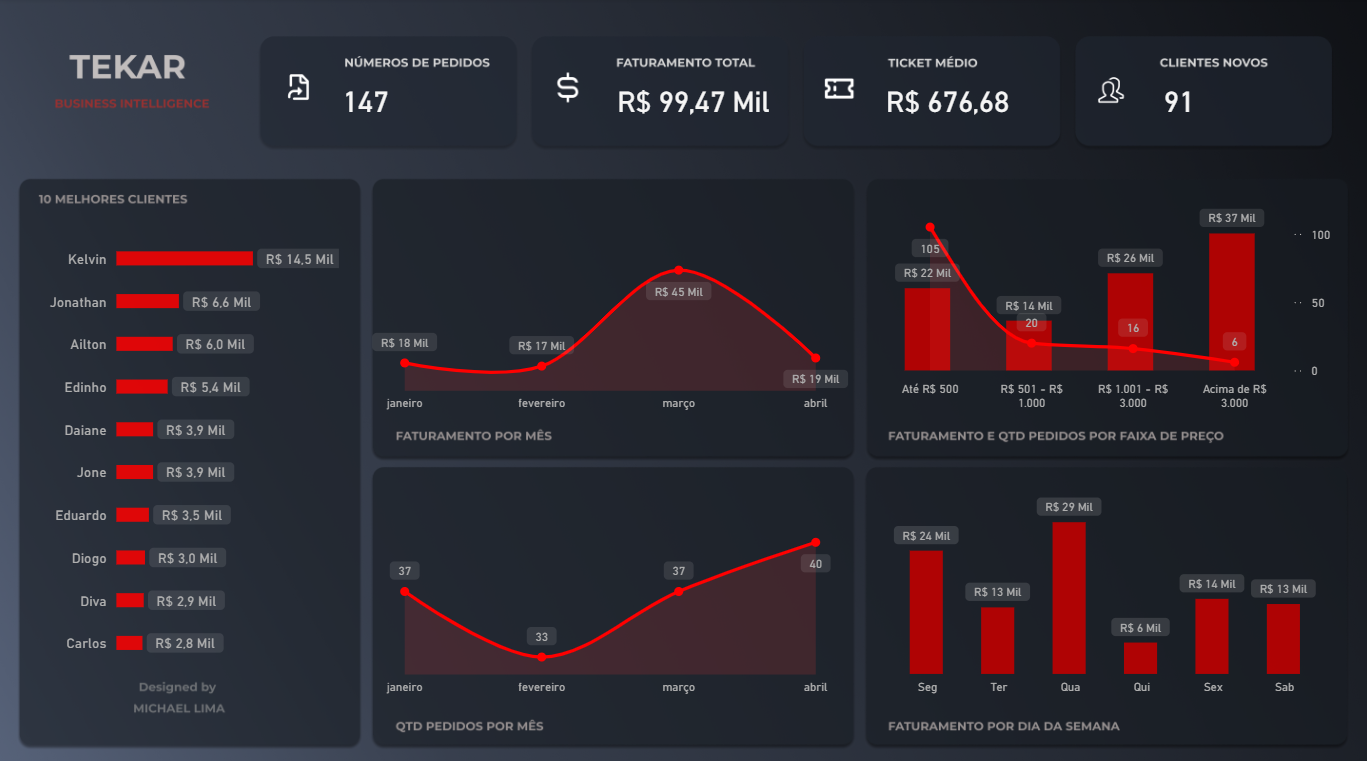
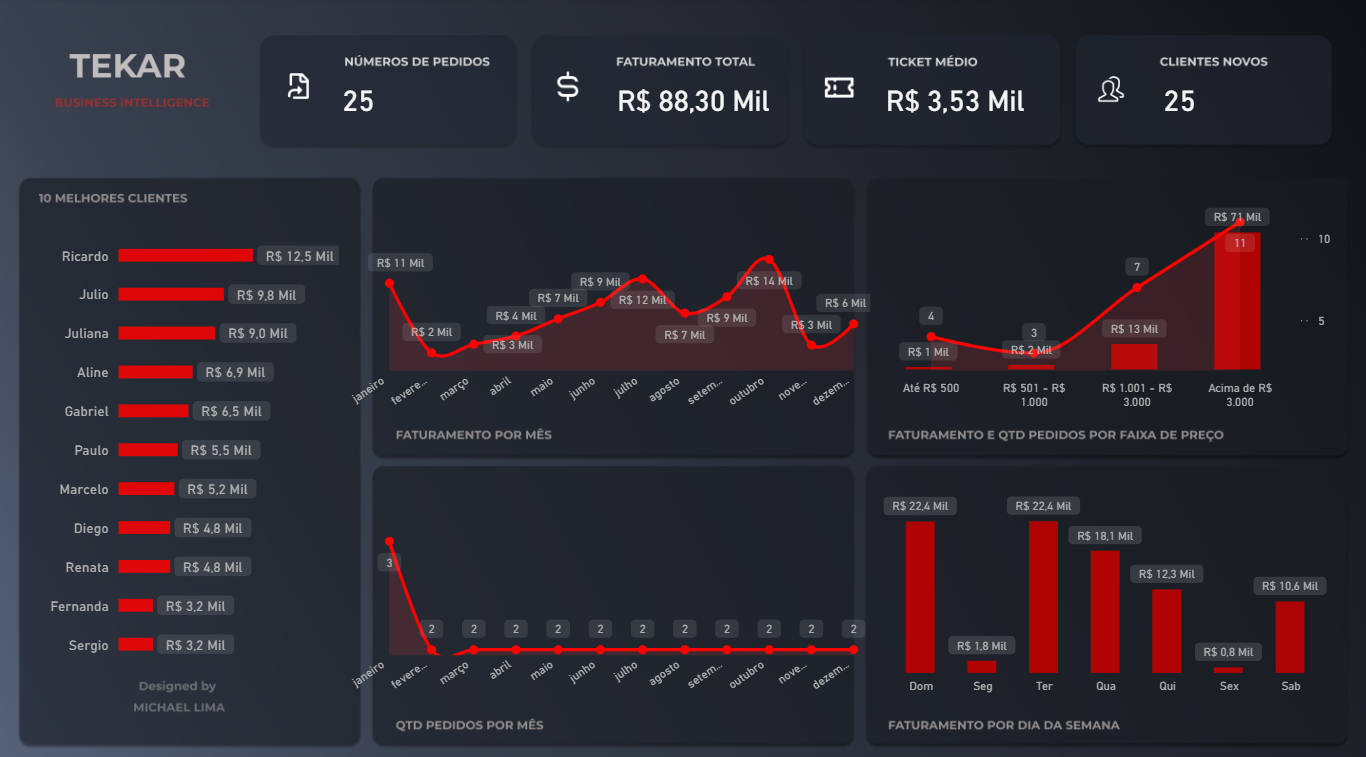
README.md

diff --git a/README.md b/README.md
@@ -16,6 +16,56 @@ PDF → Extração → Tratamento → Banco de Dados → Power BI
 
 ---
 
+## Screenshots
+
+### 1. Dashboard Streamlit
+
+> Área principal da plataforma Streamlit com visão geral do processamento.
+
+![Dashboard Streamlit](docs/dashboard_streamlit.png)
+
+---
+
+### 2. Área de Extração de Dados
+
+> Upload dos PDFs e processamento automático dos recibos.
+
+![Extração de Dados](docs/extracao_dados.png)
+
+---
+
+### 3. Área de Exportação de Dados
+
+> Exportação para CSV/Excel e envio direto para PostgreSQL.
+
+![Exportação de Dados](docs/exportar_dados.png)
+
+---
+
+### 4. Template Power BI
+
+> Plano de fundo criado no Figma para construção visual do dashboard.
+
+![Template Power BI](powerbi/screenshots/Figma.png)
+
+---
+
+### 5. Esboço da Arquitetura Visual
+
+> Rascunho do layout e organização dos elementos no Excalidraw.
+
+![Esboço Excalidraw](powerbi/screenshots/Excalidraw.png)
+
+---
+
+### 6. Dashboard Power BI Final
+
+> Dashboard final conectado ao PostgreSQL e publicado para visualização web.
+
+![Dashboard Power BI](powerbi/screenshots/DashBoard.png)
+
+---
+
 ## Arquitetura
 
 ```text
@@ -166,55 +216,6 @@ pdf_etl_platform/
         ├── __init__.py
         └── pedido_transformer.py
 ```
----
-
-## Screenshots
-
-### 1. Dashboard Streamlit
-
-> Área principal da plataforma Streamlit com visão geral do processamento.
-
-![Dashboard Streamlit](docs/dashboard_streamlit.png)
-
----
-
-### 2. Área de Extração de Dados
-
-> Upload dos PDFs e processamento automático dos recibos.
-
-![Extração de Dados](docs/extracao_dados.png)
-
----
-
-### 3. Área de Exportação de Dados
-
-> Exportação para CSV/Excel e envio direto para PostgreSQL.
-
-![Exportação de Dados](docs/exportar_dados.png)
-
----
-
-### 4. Template Power BI
-
-> Plano de fundo criado no Figma para construção visual do dashboard.
-
-![Template Power BI](powerbi/screenshots/Figma.png)
-
----
-
-### 5. Esboço da Arquitetura Visual
-
-> Rascunho do layout e organização dos elementos no Excalidraw.
-
-![Esboço Excalidraw](powerbi/screenshots/Excalidraw.png)
-
----
-
-### 6. Dashboard Power BI Final
-
-> Dashboard final conectado ao PostgreSQL e publicado para visualização web.
-
-![Dashboard Power BI](powerbi/screenshots/DashBoard.png)
 
 ---
 